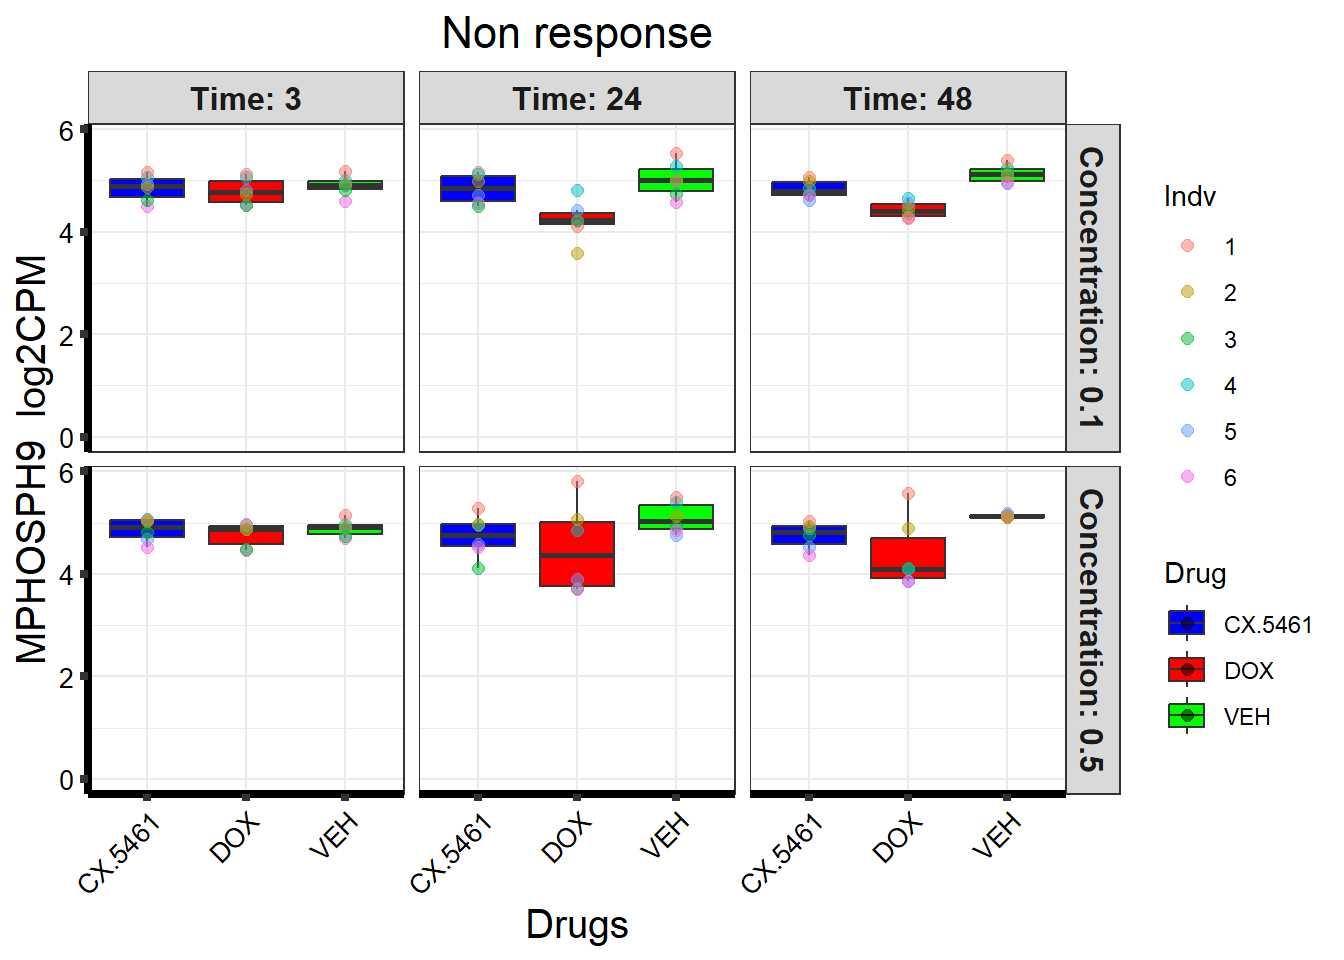
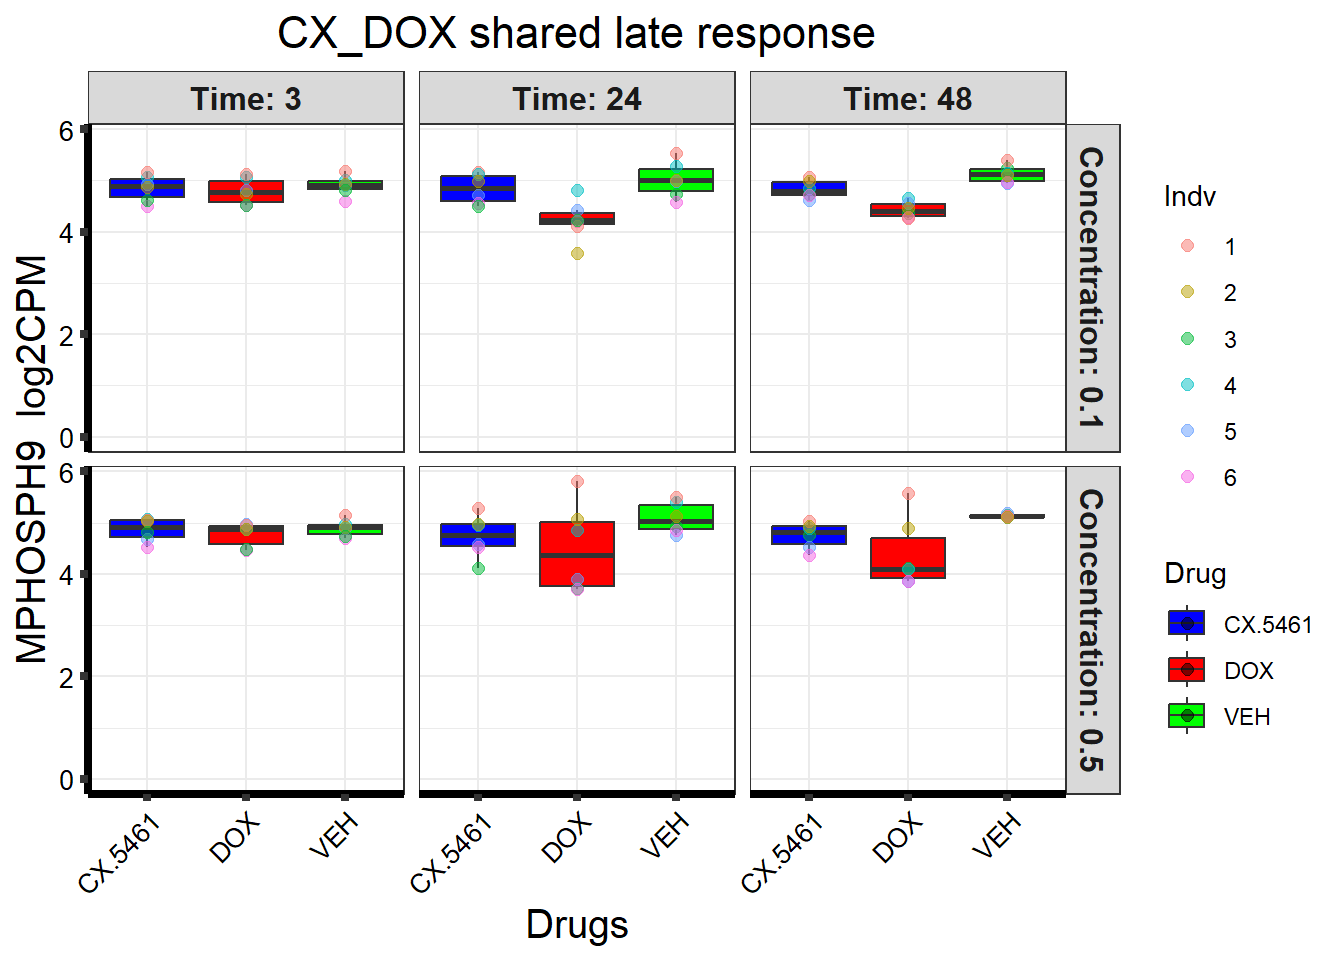
Added CX_DOX shared late response (SVIP) boxplot

Changed region(s): [[0.1875, 0.0, 0.6562, 0.0625]]

diff --git a/docs/Corrmotif_all.html b/docs/Corrmotif_all.html
@@ -357,7 +357,7 @@ div.tocify {
 <p>
 <button type="button" class="btn btn-default btn-workflowr btn-workflowr-report" data-toggle="collapse" data-target="#workflowr-report">
 <span class="glyphicon glyphicon-list" aria-hidden="true"></span>
-workflowr <span class="glyphicon glyphicon-ok text-success"
+workflowr <span class="glyphicon glyphicon-exclamation-sign text-danger"
 aria-hidden="true"></span>
 </button>
 </p>
@@ -368,8 +368,8 @@ aria-hidden="true"></span>
 </li>
 <li>
 <a data-toggle="tab" href="#checks"> Checks <span
-class="glyphicon glyphicon-ok text-success" aria-hidden="true"></span>
-</a>
+class="glyphicon glyphicon-exclamation-sign text-danger"
+aria-hidden="true"></span> </a>
 </li>
 <li>
 <a data-toggle="tab" href="#versions">Past versions</a>
@@ -382,9 +382,9 @@ class="glyphicon glyphicon-ok text-success" aria-hidden="true"></span>
 </p>
 <p>
 <strong>Checks:</strong> <span
-class="glyphicon glyphicon-ok text-success" aria-hidden="true"></span> 7
+class="glyphicon glyphicon-ok text-success" aria-hidden="true"></span> 6
 <span class="glyphicon glyphicon-exclamation-sign text-danger"
-aria-hidden="true"></span> 0
+aria-hidden="true"></span> 1
 </p>
 <p>
 <strong>Knit directory:</strong> <code>CX5461_Project/</code> <span
@@ -407,18 +407,21 @@ versions</em> tab lists the development history.
 <div class="panel panel-default">
 <div class="panel-heading">
 <p class="panel-title">
-<a data-toggle="collapse" data-parent="#workflowr-checks" href="#strongRMarkdownfilestronguptodate">
-<span class="glyphicon glyphicon-ok text-success"
-aria-hidden="true"></span> <strong>R Markdown file:</strong> up-to-date
-</a>
+<a data-toggle="collapse" data-parent="#workflowr-checks" href="#strongRMarkdownfilestronguncommittedchanges">
+<span class="glyphicon glyphicon-exclamation-sign text-danger"
+aria-hidden="true"></span> <strong>R Markdown file:</strong> uncommitted
+changes </a>
 </p>
 </div>
-<div id="strongRMarkdownfilestronguptodate"
+<div id="strongRMarkdownfilestronguncommittedchanges"
 class="panel-collapse collapse">
 <div class="panel-body">
-<p>Great! Since the R Markdown file has been committed to the Git
-repository, you know the exact version of the code that produced these
-results.</p>
+<p>The R Markdown file has unstaged changes. To know which version of
+the R Markdown file created these results, you’ll want to first commit
+it to the Git repo. If you’re still working on the analysis, you can
+ignore this warning. When you’re finished, you can run
+<code>wflow_publish</code> to commit the R Markdown file and build the
+HTML.</p>
 </div>
 </div>
 </div>
@@ -509,15 +512,15 @@ project makes it easier to run your code on other machines.</p>
 <div class="panel panel-default">
 <div class="panel-heading">
 <p class="panel-title">
-<a data-toggle="collapse" data-parent="#workflowr-checks" href="#strongRepositoryversionstrongahrefhttpsgithubcomsayanpaul01CX5461Projecttreec4ed3e0b60e059fc645507b7232e0d9ad89ef780targetblankc4ed3e0a">
+<a data-toggle="collapse" data-parent="#workflowr-checks" href="#strongRepositoryversionstrongahrefhttpsgithubcomsayanpaul01CX5461Projecttree1804cc346155c4d2cd9a41b4ed3046737609b5e1targetblank1804cc3a">
 <span class="glyphicon glyphicon-ok text-success"
 aria-hidden="true"></span> <strong>Repository version:</strong>
-<a href="https://github.com/sayanpaul01/CX5461_Project/tree/c4ed3e0b60e059fc645507b7232e0d9ad89ef780" target="_blank">c4ed3e0</a>
+<a href="https://github.com/sayanpaul01/CX5461_Project/tree/1804cc346155c4d2cd9a41b4ed3046737609b5e1" target="_blank">1804cc3</a>
 </a>
 </p>
 </div>
 <div
[2 lines of base64/hex data omitted]
 class="panel-collapse collapse">
 <div class="panel-body">
 <p>
@@ -527,7 +530,7 @@ reproducibility.
 </p>
 <p>
 The results in this page were generated with repository version
-<a href="https://github.com/sayanpaul01/CX5461_Project/tree/c4ed3e0b60e059fc645507b7232e0d9ad89ef780" target="_blank">c4ed3e0</a>.
+<a href="https://github.com/sayanpaul01/CX5461_Project/tree/1804cc346155c4d2cd9a41b4ed3046737609b5e1" target="_blank">1804cc3</a>.
 See the <em>Past versions</em> tab to see a history of the changes made
 to the R Markdown and HTML files.
 </p>
@@ -546,8 +549,8 @@ Ignored files:
     Ignored:    .Rhistory
     Ignored:    .Rproj.user/
 
-Untracked files:
-    Untracked:  data/boxplot1.csv
+Unstaged changes:
+    Modified:   analysis/Corrmotif_all.Rmd
 
 </code></pre>
 <p>
@@ -593,6 +596,23 @@ Message
 </tr>
 </thead>
 <tbody>
+<tr>
+<td>
+html
+</td>
+<td>
+<a href="https://rawcdn.githack.com/sayanpaul01/CX5461_Project/e73d731caeb1fe0eb8f95488b5bcbd2d6049b253/docs/Corrmotif_all.html" target="_blank">e73d731</a>
+</td>
+<td>
+sayanpaul01
+</td>
+<td>
+2025-02-23
+</td>
+<td>
+Build site.
+</td>
+</tr>
 <tr>
 <td>
 Rmd
@@ -1926,6 +1946,43 @@ ggplot(gene_data_long, aes(x = Drug, y = log2CPM, fill = Drug)) +
     strip.text = element_text(size = 12, face = &quot;bold&quot;)
   )</code></pre>
 <p><img src="figure/Corrmotif_all.Rmd/box1-1.png" width="672" style="display: block; margin: auto;" /></p>
+<p>
+<button type="button" class="btn btn-default btn-xs btn-workflowr btn-workflowr-fig" data-toggle="collapse" data-target="#fig-box1-1">
+Past versions of box1-1.png
+</button>
+</p>
+<div id="fig-box1-1" class="collapse">
+<div class="table-responsive">
+<table class="table table-condensed table-hover">
+<thead>
+<tr>
+<th>
+Version
+</th>
+<th>
+Author
+</th>
+<th>
+Date
+</th>
+</tr>
+</thead>
+<tbody>
+<tr>
+<td>
+<a href="https://github.com/sayanpaul01/CX5461_Project/blob/e73d731caeb1fe0eb8f95488b5bcbd2d6049b253/docs/figure/Corrmotif_all.Rmd/box1-1.png" target="_blank">e73d731</a>
+</td>
+<td>
+sayanpaul01
+</td>
+<td>
+2025-02-23
+</td>
+</tr>
+</tbody>
+</table>
+</div>
+</div>
 </div>
 <div id="non-response-faap20" class="section level2">
 <h2><strong>📌 Non response (FAAP20)</strong></h2>
@@ -2055,6 +2112,43 @@ ggplot(gene_data_long, aes(x = Drug, y = log2CPM, fill = Drug)) +
     strip.text = element_text(size = 12, face = &quot;bold&quot;)
   )</code></pre>
 <p><img src="figure/Corrmotif_all.Rmd/box2-1.png" width="672" style="display: block; margin: auto;" /></p>
+<p>
+<button type="button" class="btn btn-default btn-xs btn-workflowr btn-workflowr-fig" data-toggle="collapse" data-target="#fig-box2-1">
+Past versions of box2-1.png
+</button>
+</p>
+<div id="fig-box2-1" class="collapse">
+<div class="table-responsive">
+<table class="table table-condensed table-hover">
+<thead>
+<tr>
+<th>
+Version
+</th>
+<th>
+Author
+</th>
+<th>
+Date
+</th>
+</tr>
+</thead>
+<tbody>
+<tr>
+<td>
+<a href="https://github.com/sayanpaul01/CX5461_Project/blob/e73d731caeb1fe0eb8f95488b5bcbd2d6049b253/docs/figure/Corrmotif_all.Rmd/box2-1.png" target="_blank">e73d731</a>
+</td>
+<td>
+sayanpaul01
+</td>
+<td>
+2025-02-23
+</td>
+</tr>
+</tbody>
+</table>
+</div>
+</div>
 </div>
 <div id="cx_dox-shared-late-response-mphosph9" class="section level2">
 <h2><strong>📌 CX_DOX shared late response (MPHOSPH9)</strong></h2>
@@ -2166,9 +2260,9 @@ ggplot(gene_data_long, aes(x = Drug, y = log2CPM, fill = Drug)) +
   facet_grid(Concentration ~ Time, labeller = label_both) +
   geom_point(aes(color = Indv), size = 2, alpha = 0.5,
              position = position_jitter(width = -0.3, height = 0)) +
-  ggtitle(&quot;Non response&quot;) +
+  ggtitle(&quot;CX_DOX shared late response&quot;) +
   labs(
-    title = &quot;Non response&quot;,
+    title = &quot;CX_DOX shared late response&quot;,
     x = &quot;Drugs&quot;,
     y = paste(gene_symbol, &quot; log2CPM&quot;)
   ) +
@@ -2184,6 +2278,172 @@ ggplot(gene_data_long, aes(x = Drug, y = log2CPM, fill = Drug)) +
     strip.text = element_text(size = 12, face = &quot;bold&quot;)
   )</code></pre>
 <p><img src="figure/Corrmotif_all.Rmd/box3-1.png" width="672" style="display: block; margin: auto;" /></p>
+<p>
+<button type="button" class="btn btn-default btn-xs btn-workflowr btn-workflowr-fig" data-toggle="collapse" data-target="#fig-box3-1">
+Past versions of box3-1.png
+</button>
+</p>
+<div id="fig-box3-1" class="collapse">
+<div class="table-responsive">
+<table class="table table-condensed table-hover">
+<thead>
+<tr>
+<th>
+Version
+</th>
+<th>
+Author
+</th>
+<th>
+Date
+</th>
+</tr>
+</thead>
+<tbody>
+<tr>
+<td>
+<a href="https://github.com/sayanpaul01/CX5461_Project/blob/e73d731caeb1fe0eb8f95488b5bcbd2d6049b253/docs/figure/Corrmotif_all.Rmd/box3-1.png" target="_blank">e73d731</a>
+</td>
+<td>
+sayanpaul01
+</td>
+<td>
+2025-02-23
+</td>
+</tr>
+</tbody>
+</table>
+</div>
+</div>
+</div>
+<div id="cx_dox-shared-late-response-svip" class="section level2">
+<h2><strong>📌 CX_DOX shared late response (SVIP)</strong></h2>
+<pre class="r"><code># Load the dataset from the data folder
+# Load the dataset from the data folder
+
+# Filter data for the gene with Entrez ID: 258010
+gene_data &lt;- boxplot1[boxplot1$ENTREZID == 258010, ]
+
+# Check if gene_data is empty
+if(nrow(gene_data) == 0) {
+  stop(&quot;No data found for the selected gene ENTIREZID 258010.&quot;)
+}
+
+# Reshape data from wide to long format
+gene_data_long &lt;- melt(gene_data,
+                       id.vars = c(&quot;ENTREZID&quot;, &quot;SYMBOL&quot;, &quot;GENENAME&quot;),
+                       variable.name = &quot;Sample&quot;,
+                       value.name = &quot;log2CPM&quot;)
+
+# Print some sample names for debugging
+print(unique(gene_data_long$Sample))</code></pre>
+<pre><code>  [1]                     17.3_CX.5461_0.1_3  17.3_DOX_0.5_24    
+  [4] 87.1_DOX_0.5_24     87.1_VEH_0.1_24     87.1_VEH_0.5_24    
+  [7] 87.1_CX.5461_0.1_48 87.1_CX.5461_0.5_48 87.1_DOX_0.1_48    
+ [10] 87.1_DOX_0.5_48     87.1_VEH_0.1_48     87.1_VEH_0.5_48    
+ [13] 17.3_VEH_0.1_24     17.3_VEH_0.5_24     17.3_CX.5461_0.1_48
+ [16] 17.3_CX.5461_0.5_48 17.3_DOX_0.1_48     17.3_DOX_0.5_48    
+ [19] 17.3_VEH_0.1_48     17.3_VEH_0.5_48     84.1_CX.5461_0.1_3 
+ [22] 17.3_CX.5461_0.5_3  84.1_CX.5461_0.5_3  84.1_DOX_0.1_3     
+ [25] 84.1_DOX_0.5_3      84.1_VEH_0.1_3      84.1_VEH_0.5_3     
+ [28] 84.1_CX.5461_0.1_24 84.1_CX.5461_0.5_24 84.1_DOX_0.1_24    
+ [31] 84.1_DOX_0.5_24     84.1_VEH_0.1_24     17.3_DOX_0.1_3     
+ [34] 84.1_VEH_0.5_24     84.1_CX.5461_0.1_48 84.1_CX.5461_0.5_48
+ [37] 84.1_DOX_0.1_48     84.1_DOX_0.5_48     84.1_VEH_0.1_48    
+ [40] 84.1_VEH_0.5_48     90.1_CX.5461_0.1_3  90.1_CX.5461_0.5_3 
+ [43] 90.1_DOX_0.1_3      17.3_DOX_0.5_3      90.1_DOX_0.5_3     
+ [46] 90.1_VEH_0.1_3      90.1_VEH_0.5_3      90.1_CX.5461_0.1_24
+ [49] 90.1_CX.5461_0.5_24 90.1_DOX_0.1_24     90.1_DOX_0.5_24    
+ [52] 90.1_VEH_0.1_24     90.1_VEH_0.5_24     90.1_CX.5461_0.1_48
+ [55] 17.3_VEH_0.1_3      90.1_CX.5461_0.5_48 90.1_DOX_0.1_48    
+ [58] 90.1_DOX_0.5_48     90.1_VEH_0.1_48     90.1_VEH_0.5_48    
+ [61] 75.1_CX.5461_0.1_3  75.1_CX.5461_0.5_3  75.1_DOX_0.1_3     
+ [64] 75.1_DOX_0.5_3      75.1_VEH_0.1_3      17.3_VEH_0.5_3     
+ [67] 75.1_VEH_0.5_3      75.1_CX.5461_0.1_24 75.1_CX.5461_0.5_24
+ [70] 75.1_DOX_0.1_24     75.1_DOX_0.5_24     75.1_VEH_0.1_24    
+ [73] 75.1_VEH_0.5_24     75.1_CX.5461_0.1_48 75.1_CX.5461_0.5_48
+ [76] 75.1_DOX_0.1_48     17.3_CX.5461_0.1_24 75.1_DOX_0.5_48    
+ [79] 75.1_VEH_0.1_48     75.1_VEH_0.5_48     78.1_CX.5461_0.1_3 
+ [82] 78.1_CX.5461_0.5_3  78.1_DOX_0.1_3      78.1_DOX_0.5_3     
+ [85] 78.1_VEH_0.1_3      78.1_VEH_0.5_3      78.1_CX.5461_0.1_24
+ [88] 17.3_CX.5461_0.5_24 78.1_CX.5461_0.5_24 78.1_DOX_0.1_24    
+ [91] 78.1_DOX_0.5_24     78.1_VEH_0.1_24     78.1_VEH_0.5_24    
+ [94] 78.1_CX.5461_0.1_48 78.1_CX.5461_0.5_48 78.1_DOX_0.1_48    
+ [97] 78.1_DOX_0.5_48     78.1_VEH_0.1_48     17.3_DOX_0.1_24    
+[100] 78.1_VEH_0.5_48     87.1_CX.5461_0.1_3  87.1_CX.5461_0.5_3 
+[103] 87.1_DOX_0.1_3      87.1_DOX_0.5_3      87.1_VEH_0.1_3     
+[106] 87.1_VEH_0.5_3      87.1_CX.5461_0.1_24 87.1_CX.5461_0.5_24
+[109] 87.1_DOX_0.1_24    
+109 Levels:  17.3_CX.5461_0.1_3 17.3_DOX_0.5_24 ... 87.1_DOX_0.1_24</code></pre>
+<pre class="r"><code># Extract details from sample names
+gene_data_long &lt;- gene_data_long %&gt;%
+  mutate(
+    Time = sub(&quot;.*_(\\d+)$&quot;, &quot;\\1&quot;, Sample),
+    Concentration = sub(&quot;.*_(0\\.\\d)_\\d+$&quot;, &quot;\\1&quot;, Sample),
+    Drug = sub(&quot;.*_(CX\\.5461|DOX|VEH)_.*&quot;, &quot;\\1&quot;, Sample),
+    Indv = sub(&quot;^([0-9]+\\.[0-9]+)_.*&quot;, &quot;\\1&quot;, Sample)  # Ensure correct pattern extraction
+  )
+
+# Print extracted `Indv` column for debugging
+print(unique(gene_data_long$Indv))</code></pre>
+<pre><code>[1] &quot;&quot;     &quot;17.3&quot; &quot;87.1&quot; &quot;84.1&quot; &quot;90.1&quot; &quot;75.1&quot; &quot;78.1&quot;</code></pre>
+<pre class="r"><code># Convert extracted columns to factors
+gene_data_long$Time &lt;- factor(gene_data_long$Time, levels = c(&quot;3&quot;, &quot;24&quot;, &quot;48&quot;))
+gene_data_long$Concentration &lt;- factor(gene_data_long$Concentration, levels = c(&quot;0.1&quot;, &quot;0.5&quot;))
+
+# Ensure each concentration facet only shows relevant data
+gene_data_long &lt;- gene_data_long %&gt;%
+  group_by(Concentration) %&gt;%
+  filter(all(Concentration == &quot;0.1&quot;) | all(Concentration == &quot;0.5&quot;)) %&gt;%
+  ungroup()
+
+# Map individual IDs
+indv_mapping &lt;- c(&quot;75.1&quot; = &quot;1&quot;, &quot;78.1&quot; = &quot;2&quot;, &quot;87.1&quot; = &quot;3&quot;, &quot;17.3&quot; = &quot;4&quot;, &quot;84.1&quot; = &quot;5&quot;, &quot;90.1&quot; = &quot;6&quot;)
+
+# Ensure `Indv` values match the keys in `indv_mapping`
+gene_data_long &lt;- gene_data_long %&gt;%
+  mutate(
+    Indv = ifelse(Indv %in% names(indv_mapping), indv_mapping[Indv], NA)
+  )
+
+# Print `Indv` column again to confirm mapping worked
+print(unique(gene_data_long$Indv))</code></pre>
+<pre><code>[1] &quot;4&quot; &quot;3&quot; &quot;5&quot; &quot;6&quot; &quot;1&quot; &quot;2&quot;</code></pre>
+<pre class="r"><code># Check for missing values and handle them
+gene_data_long &lt;- gene_data_long %&gt;%
+  mutate(Indv = ifelse(is.na(Indv), &quot;Unknown&quot;, Indv))  # Assign &quot;Unknown&quot; to unidentified individuals
+
+# Define drug colors
+drug_palette &lt;- c(&quot;CX.5461&quot; = &quot;blue&quot;, &quot;DOX&quot; = &quot;red&quot;, &quot;VEH&quot; = &quot;green&quot;)
+
+# Extract the gene symbol for labeling
+gene_symbol &lt;- unique(gene_data_long$SYMBOL)[1]
+
+# Create the boxplot
+ggplot(gene_data_long, aes(x = Drug, y = log2CPM, fill = Drug)) +
+  geom_boxplot(outlier.shape = NA) +
+  scale_fill_manual(values = drug_palette) +
+  facet_grid(Concentration ~ Time, labeller = label_both) +
+  geom_point(aes(color = Indv), size = 2, alpha = 0.5,
+             position = position_jitter(width = -0.3, height = 0)) +
+  ggtitle(&quot;CX_DOX shared late response&quot;) +
+  labs(
+    title = &quot;CX_DOX shared late response&quot;,
+    x = &quot;Drugs&quot;,
+    y = paste(gene_symbol, &quot; log2CPM&quot;)
+  ) +
+  ylim(0, NA) +
+  theme_bw() +
+  theme(
+    plot.title = element_text(size = rel(1.5), hjust = 0.5),
+    axis.title = element_text(size = 15, color = &quot;black&quot;),
+    axis.ticks = element_line(linewidth = 1.5),
+    axis.line = element_line(linewidth = 1.5),
+    axis.text.y = element_text(size = 10, color = &quot;black&quot;),
+    axis.text.x = element_text(size = 10, color = &quot;black&quot;, angle = 45, hjust = 1),
+    strip.text = element_text(size = 12, face = &quot;bold&quot;)
+  )</code></pre>
+<p><img src="figure/Corrmotif_all.Rmd/box4-1.png" width="672" style="display: block; margin: auto;" /></p>
 <br>
 <p>
 <button type="button" class="btn btn-default btn-workflowr btn-workflowr-sessioninfo" data-toggle="collapse" data-target="#workflowr-sessioninfo" style="display: block;">
